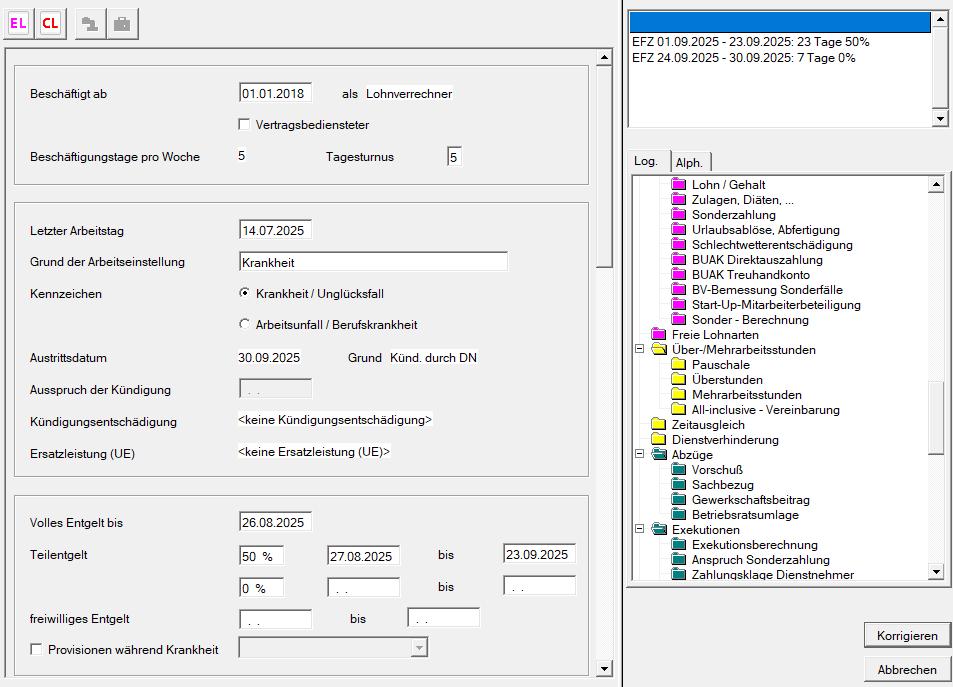
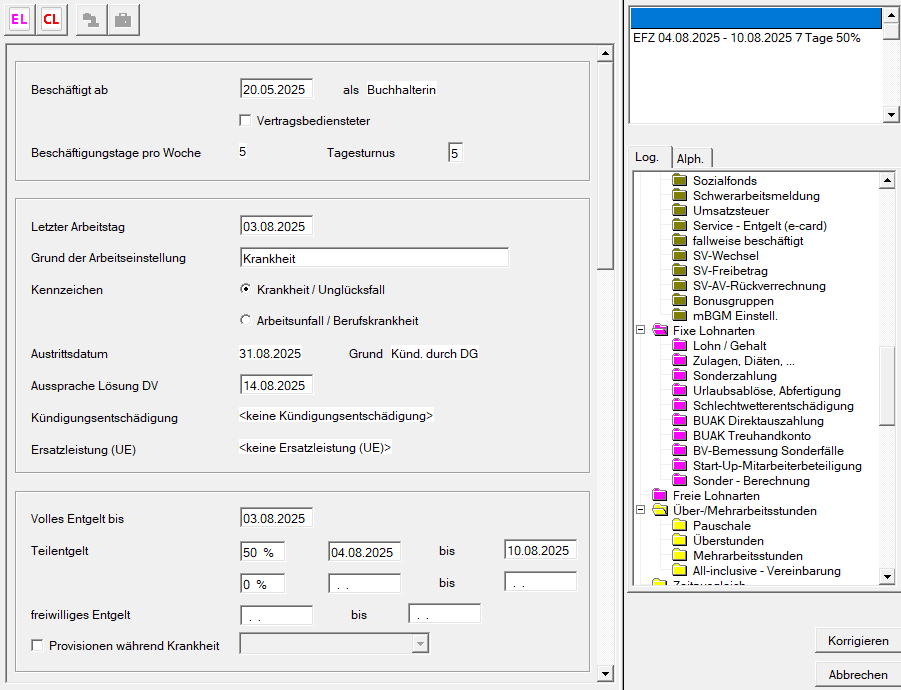
Anpassung der A+E Krankengeld für 2026

diff --git a/docs/LOHN/Abrechnungsbildschirme/Arbeits_und_Entgeltbestaetigung_Krankengeld.md b/docs/LOHN/Abrechnungsbildschirme/Arbeits_und_Entgeltbestaetigung_Krankengeld.md
@@ -37,9 +37,16 @@ handelt.
 
 Die Einträge in den Feldern *Austrittsdatum, Kündigungsentschädigung, Ersatzleistung (UE)* beziehen sich auf die Daten im Eingabebildschirm [*Austritt*](../Abrechnungsbildschirme/Austritt.md).
 
-**Ausspruch der Kündigung**
+**Aussprache Lösung DV**
 
-Hier müssen Sie jenen Tag des Ausspruchs der Kündigung eintragen, wenn es sich um die Kündigungsgründe *Kündigung durch den Dienstgeber* oder *einvernehmliche Lösung* handelt.
+Hier müssen Sie jenen Tag des Ausspruchs der Lösung des Dienstverhältnisses eintragen, wenn es sich um die Kündigungsgründe
+
+- Kündigung durch den Dienstgeber, 
+- einvernehmliche Lösung,
+- berechtigter vorzeitiger Austritt oder
+- fristlose Entlassung
+
+handelt.
 
 ## Entgelt
 
@@ -69,11 +76,7 @@ Der Beitragszeitraum umfasst für Pflichtversicherte den Kalendermonat. Das Entg
 
 **Bezüge enthalten**
 
-Hier ist eine Eingabe zu tätigen, wenn die Geldbezüge Trinkgelder, Provisionen oder Sonstiges enthalten.
-
-**Bezüge enthalten**
-
-Hier ist eine Eingabe zu tätigen, wenn die Geldbezüge Trinkgelder, Provisionen oder Sonstiges enthalten.
+Hier ist eine Eingabe zu tätigen, wenn die Geldbezüge eine Abschlussprovision, eine Superprovision oder Sonstiges enthalten.
 
 **Art der Entlohnung**
 
